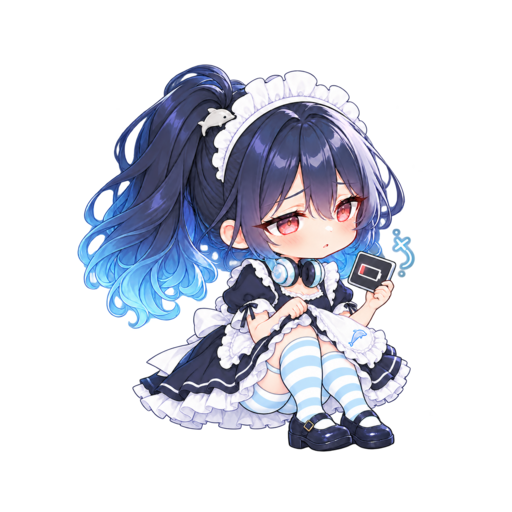
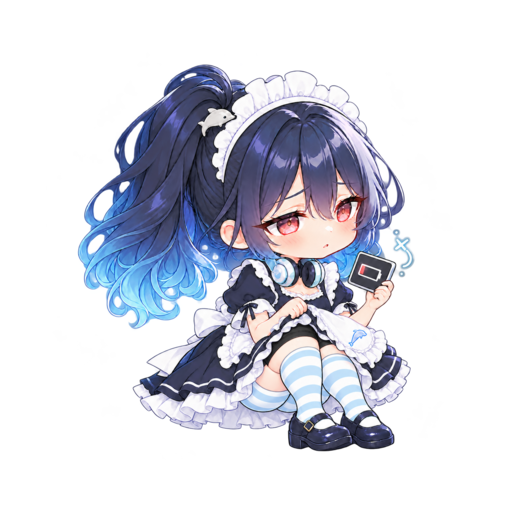
docs: clarify galgame maid shorts and over-knee socks

diff --git a/DevelopDocuments/mascot/error-page/preview.html b/DevelopDocuments/mascot/error-page/preview.html
@@ -57,7 +57,7 @@
         </section>
         <section class="card galgame">
           <div class="brand"><img src="../site-icons/exports/galgame-icon.webp" alt="" />Galgame TV</div>
-          <div class="error"><img class="art" src="exports/galgame-error.png" alt="三姐拿著低電量裝置坐下休息，大腿根部露出少量膚色，襪口位於膝蓋上方" /><div class="copy"><span class="code">404</span><h2>找不到這個頁面</h2><p>這裡暫時沒有想看的內容，先回首頁看看吧。</p><span class="button">回首頁</span></div></div>
+          <div class="error"><img class="art" src="exports/galgame-error.png" alt="三姐拿著低電量裝置坐下休息，裙內黑色安全褲與粉藍白膝上襪之間露出一段膚色" /><div class="copy"><span class="code">404</span><h2>找不到這個頁面</h2><p>這裡暫時沒有想看的內容，先回首頁看看吧。</p><span class="button">回首頁</span></div></div>
         </section>
         <section class="card steamloom">
           <div class="brand">SteamLoom</div>

diff --git a/DevelopDocuments/mascot/galgame-mascot.md b/DevelopDocuments/mascot/galgame-mascot.md
@@ -18,6 +18,12 @@
 
 和兩位姊姊屬同一系列的女僕裝，以深海藍裙身、白色荷葉邊與白圍裙呈現。上身合身但不緊繃，圓領只露出鎖骨附近，短澎袖有白色袖口；裙襬在膝上，白色圍裙背後繫蝴蝶結。裙緣與圍裙邊緣有少量水波弧線，圍裙正面下側只繡一隻小小的粉藍海豚。小型白色蕾絲頭飾避開單側馬尾與銀色海豚髮飾。襪子為粉藍與白色橫條紋膝上襪，搭配深藍色、圓鞋頭與單扣帶的瑪莉珍鞋。藍色耳罩式耳機常掛在頸上，與銀色海豚髮飾一起構成識別重點。她維持純人類外觀，沒有背鰭、尾巴或其他海豚身體部位。
 
+### 裙底、安全褲與膝上襪
+
+- 裙內穿黑色或深海藍色安全褲，顏色須與粉藍白條紋襪明顯不同。褲管短於裙襬、藏在裙內；裙子被姿勢帶起時可以看見安全褲邊緣，但不畫成延伸到腿上的褲襪。
+- 兩腳各穿一只獨立的粉藍白條紋膝上襪，襪口在膝蓋上方一段距離。站立時裙襬剛好壓住或遮到襪口；坐下或拉動裙襬時，襪口才會比較清楚。
+- 安全褲褲口與兩只襪口之間保留一段完全沒有布料的腿部，呈現自然膚色。這段間隔不可填成襪子、褲襪、打底褲或與襪子同色的安全褲。
+
 ## 生活服
 
 淺水藍寬鬆連帽上衣、深藍短褲、白短襪與室內拖鞋。袖子長到可以把手縮進去；單側高馬尾綁得比主服版本鬆一些，但銀色海豚髮飾保留。耳機可以放在桌邊。這套衣服適合坐著看片、蜷在椅子上，或沒電時伏在桌上的姿態。
@@ -36,7 +42,7 @@
 - 深海藍與白色女僕裝正面、側面、背面全身三視，同一身高與服裝結構；粉藍白條紋膝上襪、圍裙小海豚及瑪莉珍鞋需在對應視角一致。
 - 生活服正面、側面、背面全身三視，呈現連帽上衣、短褲、白短襪與拖鞋。
 - 頭部細節：深海藍單側高馬尾、水藍髮尾、銀色海豚髮飾、珊瑚粉眼睛。
-- 服裝細節：白色蕾絲頭飾、領口與澎袖、圍裙背結與小海豚刺繡、簡潔水波裙緣、粉藍白條紋膝上襪、深藍瑪莉珍鞋、生活服布料。
+- 服裝細節：白色蕾絲頭飾、領口與澎袖、圍裙背結與小海豚刺繡、簡潔水波裙緣、裙內深色安全褲與腿部膚色間隔、兩只獨立的粉藍白條紋膝上襪、深藍瑪莉珍鞋、生活服布料。
 - 道具與表情：藍色耳罩式耳機，以及畏縮、短暫興奮、專注、沒電趴窩四種狀態。
 
 ## 定稿圖
@@ -46,3 +52,5 @@
 - [表情、配件與狀態細節](galgame-detail-sheet.png)
 
 主服襪子的粉藍以約 `#A9D9EF` 為繪圖基準；白條維持白色。正式製作時以設定稿為準，細節圖的局部構圖可視用途裁切。
+
+裙底與襪子的三層新設定優先於既有三視、細節圖中可能不同的襪口畫法；後續重製圖稿時依本頁同步修正。

diff --git a/DevelopDocuments/mascot/galgame-image-prompts.md b/DevelopDocuments/mascot/galgame-image-prompts.md
@@ -4,7 +4,7 @@
 
 ## 主服三視
 
-參照 [已核定主服](galgame-maid-turnaround.png)：暖白底、無文字、同一比例的正面／右側面／背面全身三視。深海藍與白色女僕裝，白色蕾絲頭飾避開單側高馬尾；不暴露胸口的圓領、短澎袖、白色圍裙及背後蝴蝶結、膝上裙襬與節制的水波滾邊。圍裙正面下側僅有一隻小小粉藍海豚刺繡。粉藍 `#A9D9EF` 與白色等寬橫條紋膝上襪，從大腿襪口延伸至腳踝；深藍圓鞋頭、單扣帶、低跟瑪莉珍鞋。藍色耳罩式耳機掛頸。三視服裝結構、配件位置與色票一致。
+參照 [已核定主服](galgame-maid-turnaround.png)：暖白底、無文字、同一比例的正面／右側面／背面全身三視。深海藍與白色女僕裝，白色蕾絲頭飾避開單側高馬尾；不暴露胸口的圓領、短澎袖、白色圍裙及背後蝴蝶結、膝上裙襬與節制的水波滾邊。圍裙正面下側僅有一隻小小粉藍海豚刺繡。裙內有黑色或深海藍安全褲，褲管短於裙襬、顏色與襪子不同；兩只獨立的粉藍 `#A9D9EF` 與白色等寬橫條紋膝上襪，其襪口在膝蓋上方一段距離，站立時裙襬剛好遮住襪口。安全褲與襪口之間是自然膚色，不畫成褲襪或打底褲。深藍圓鞋頭、單扣帶、低跟瑪莉珍鞋；藍色耳罩式耳機掛頸。三視服裝結構、配件位置與色票一致。
 
 ## 生活服三視
 
@@ -12,4 +12,4 @@
 
 ## 表情與細節
 
-參照 [已核定細節圖](galgame-detail-sheet.png) 與兩套三視。暖白底、無文字的角色設計細節頁：畏縮觀察、看到喜歡影片時短暫興奮、戴耳機專注、疲倦四種表情；銀色海豚髮飾、藍色耳罩式耳機、女僕裝圓領與荷葉邊、圍裙小海豚刺繡與背結、粉藍白條紋膝上襪、深藍瑪莉珍鞋局部放大。另畫生活服伏在桌上的「沒電趴窩」姿態，馬尾垂下，耳機擱在桌旁；該姿態仍穿短褲，露出大腿，不穿條紋膝上襪。不要加入 API 字樣、海豚耳朵、背鰭或尾巴。
+參照 [已核定細節圖](galgame-detail-sheet.png) 與兩套三視。暖白底、無文字的角色設計細節頁：畏縮觀察、看到喜歡影片時短暫興奮、戴耳機專注、疲倦四種表情；銀色海豚髮飾、藍色耳罩式耳機、女僕裝圓領與荷葉邊、圍裙小海豚刺繡與背結、深色安全褲／膚色腿部／粉藍白膝上襪三層分明的裙底細節、深藍瑪莉珍鞋局部放大。另畫生活服伏在桌上的「沒電趴窩」姿態，馬尾垂下，耳機擱在桌旁；該姿態仍穿短褲，露出大腿，不穿條紋膝上襪。不要加入 API 字樣、海豚耳朵、背鰭或尾巴。

diff --git a/DevelopDocuments/mascot/error-page/README.md b/DevelopDocuments/mascot/error-page/README.md
@@ -8,7 +8,7 @@
 | --- | --- | --- |
 | faryne.dev | 大姐看著暫時斷線的無貼紙 MBP，冷靜中稍微 `pon` 一下 | `exports/faryne-error.png` |
 | neko.maid.tw | 二姐在文件滑落時接住資料夾，有點慌但仍掌握得住 | `exports/nekomaid-error.png` |
-| galgame.tv | 三姐坐下休息，手持低電量圖示；大腿根部露出少量膚色，襪口位於膝蓋稍上方，膝蓋以下為粉藍白條紋 | `exports/galgame-error.png` |
+| galgame.tv | 三姐坐下休息，手持低電量圖示；裙內深色安全褲、膚色腿部與兩只粉藍白膝上襪分層清楚 | `exports/galgame-error.png` |
 | steamloom.works | 梭梭查看手中的纏結絲線，沿用已上線姿勢圖 | `references/suosuo-error-nocturne-512.png` |
 
 `masters/` 是新生成的透明 PNG 原稿；`exports/` 是適合 ErrorPage 使用的 512 × 512 透明 PNG。梭梭仍沿用 `steamloom_assets/suosuo-error-{appearance}-512.png`，預覽用的 nocturne 版本複本放在 `references/`。
